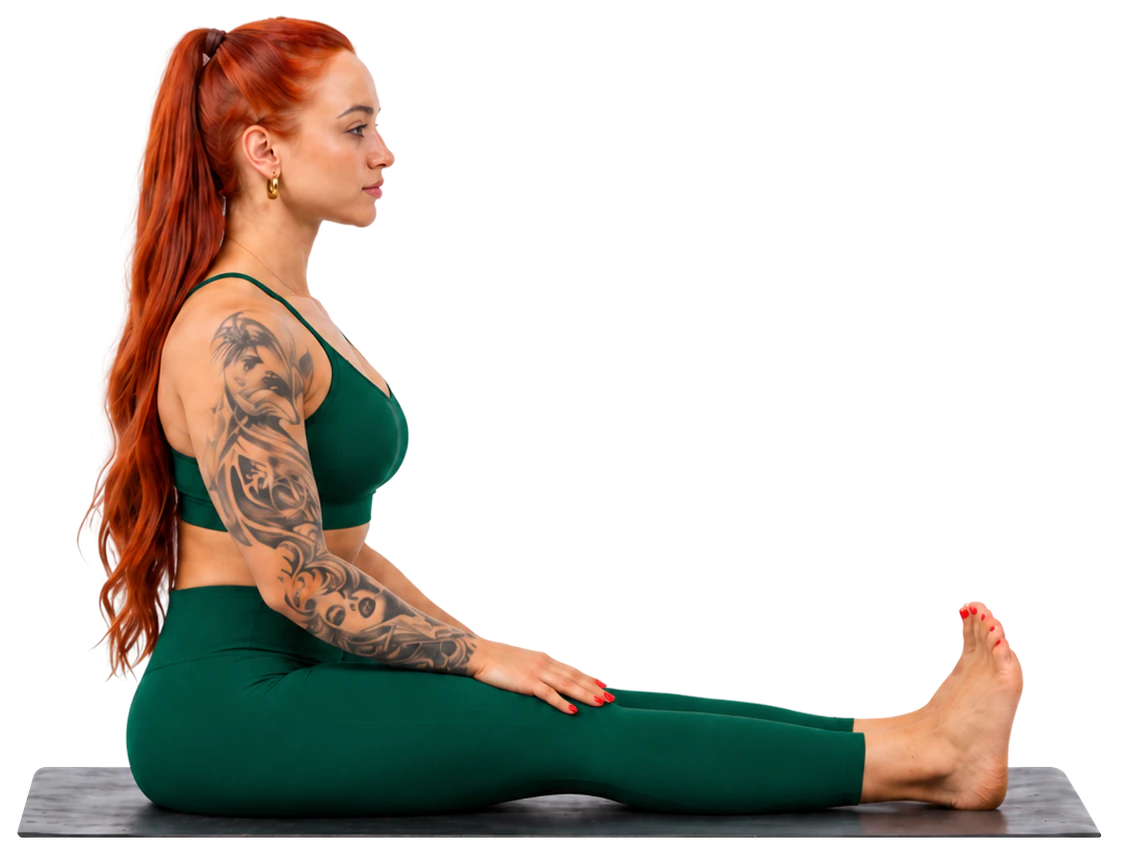
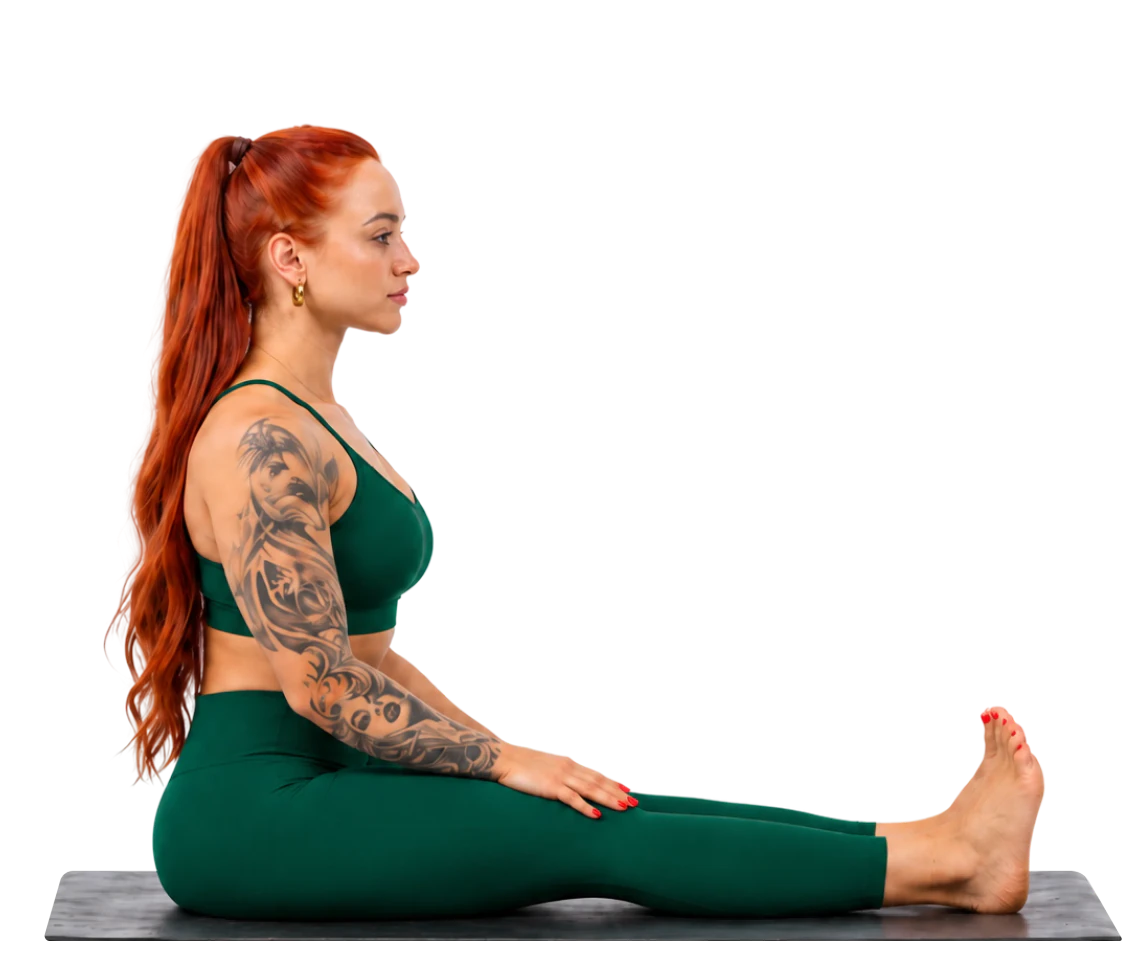
df

Changed region(s): [[0.0, 0.0, 0.9825, 1.0], [0.4298, 0.9102, 0.5526, 1.0], [0.2763, 0.9708, 0.3991, 1.0]]

diff --git a/index.html b/index.html
@@ -64,9 +64,9 @@
   <section class="mobility">
     <h2 class="mobility__title">How mobile &amp; flexible <span class="grad">you want to be?</span></h2>
     <div class="mobility__photo">
-      <img src="./images/mobile-stage-1.webp" class="mobility__stage is-visible" alt="Karyna Zubalenok: stage 1">
-      <img src="./images/mobile-stage-2.webp" class="mobility__stage" alt="Karyna Zubalenok: stage 2">
-      <img src="./images/mobile-stage-3.webp" class="mobility__stage" alt="Karyna Zubalenok: stage 3">
+      <img src="./images/nb1.webp" class="mobility__stage is-visible" alt="Karyna Zubalenok: stage 1">
+      <img src="./images/nb2.webp" class="mobility__stage" alt="Karyna Zubalenok: stage 2">
+      <img src="./images/nb3.webp" class="mobility__stage" alt="Karyna Zubalenok: stage 3">
     </div>
     <div class="range" id="mobility-range">
       <div class="range__fill"></div>

diff --git a/css/main.css b/css/main.css
@@ -3619,3 +3619,9 @@ img {
   object-fit: cover;
   background: center / cover no-repeat;
 }
+
+/* Нові фото етапів (2180×1842) вищі за бокс макету — заповнюємо бокс, лишаючи низ з килимком */
+.mobility__stage {
+  object-fit: cover;
+  object-position: center bottom;
+}
